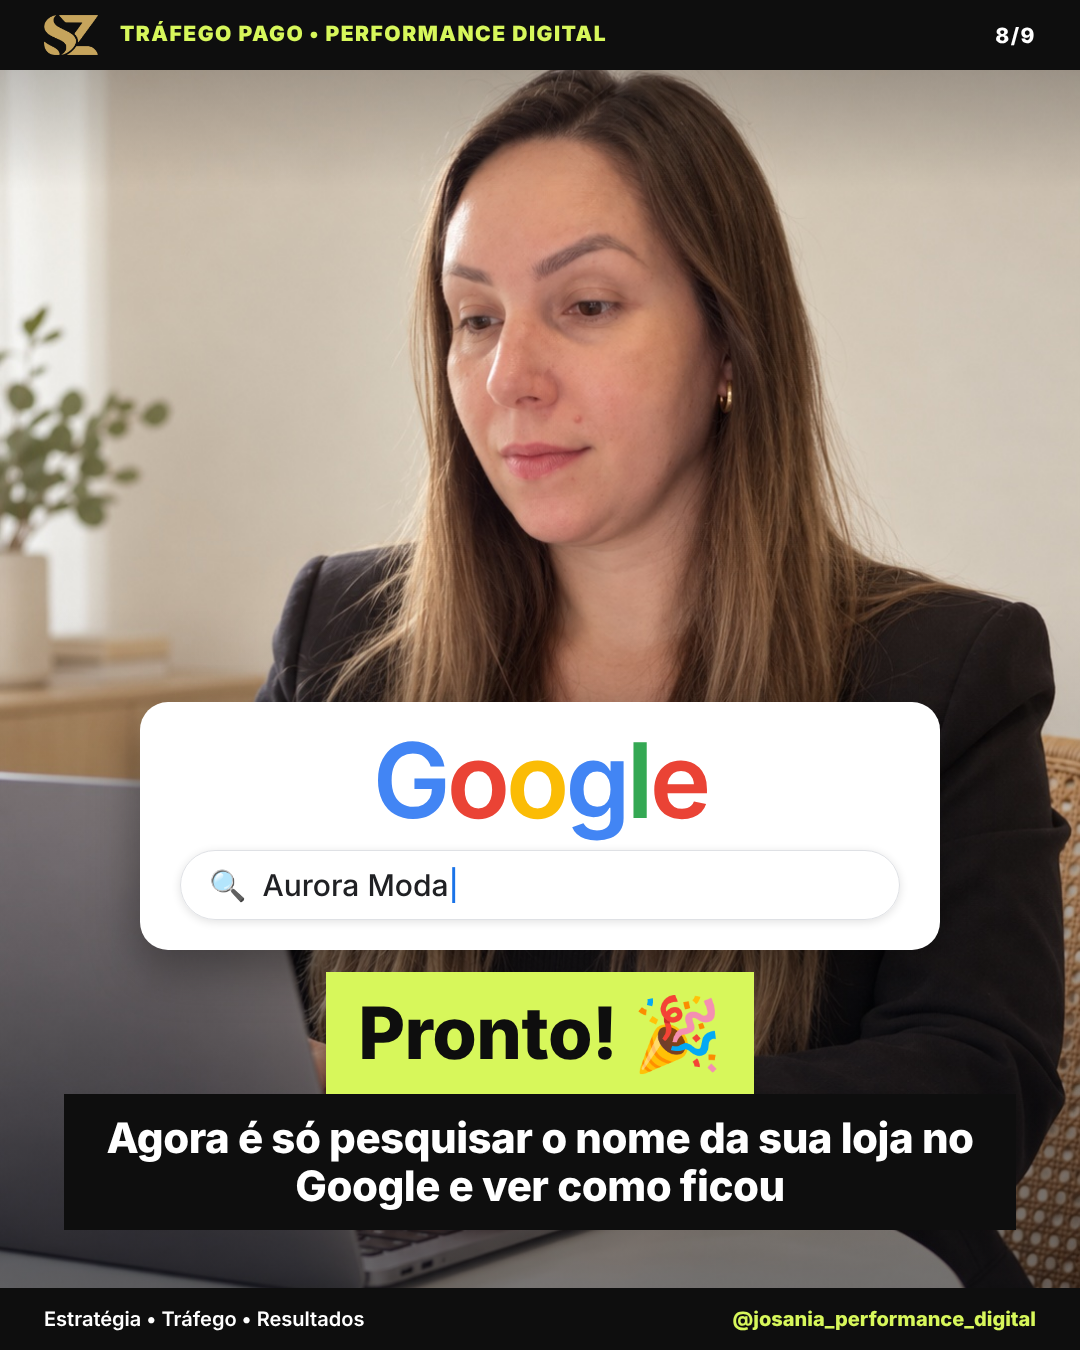
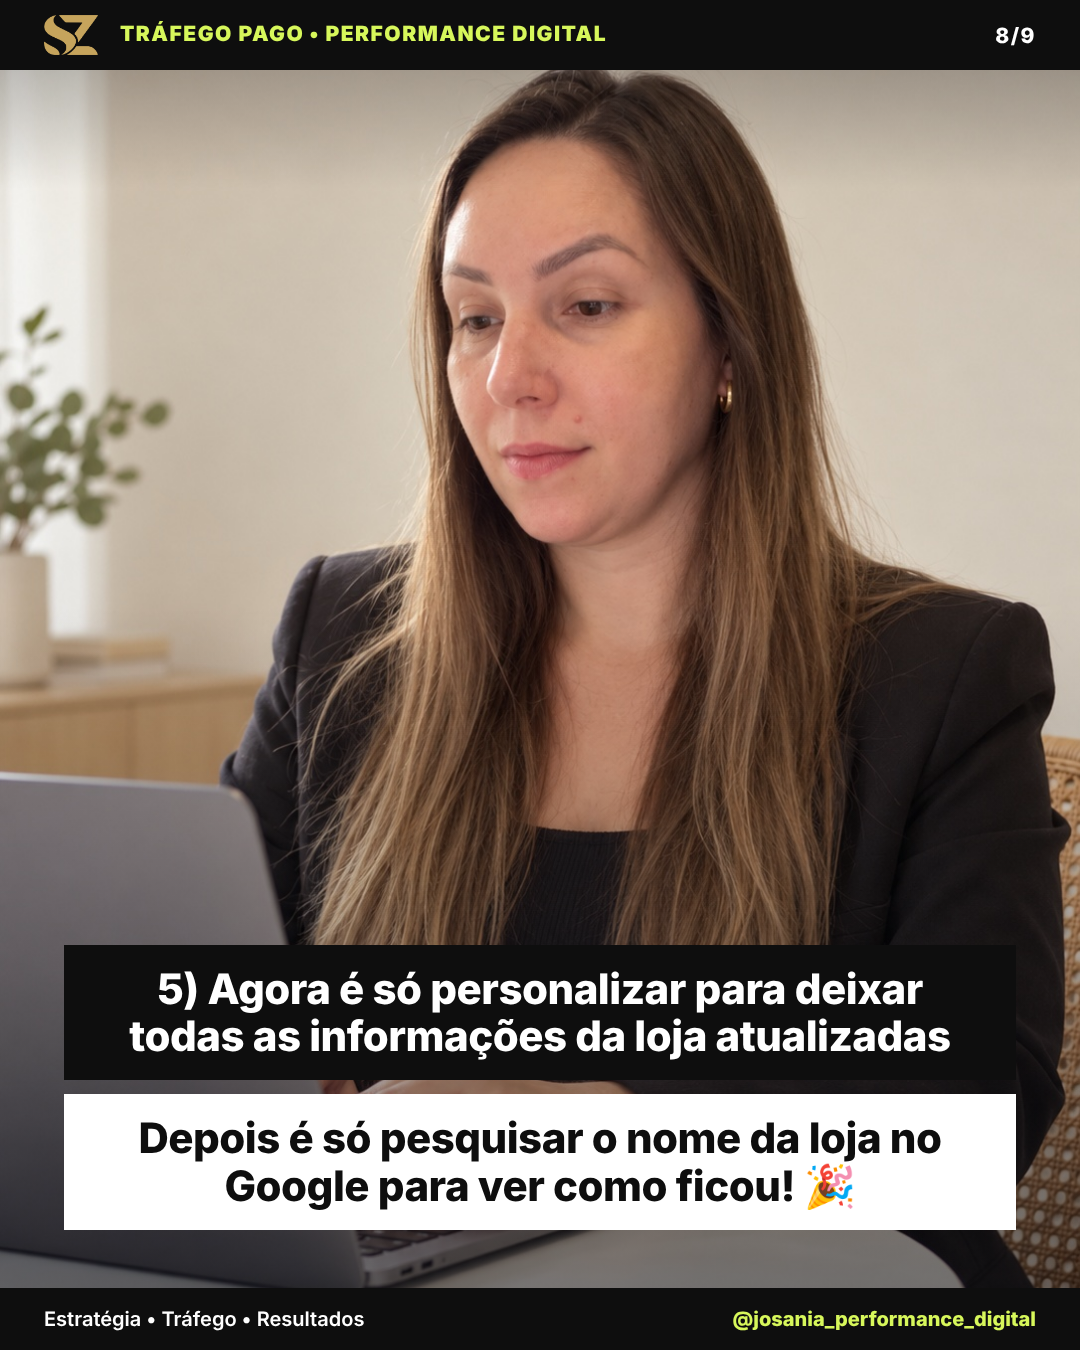
Organiza a sequência do carrossel com a loja de exemplo do início ao fim
Claude-Session: https://claude.ai/code/session_01Cdq3fSAdowyFYcw5UgbxcJ

Changed region(s): [[0.0611, 0.4978, 0.9472, 0.9333]]

diff --git a/conteudos/carrossel-perfil-google/gerar.py b/conteudos/carrossel-perfil-google/gerar.py
@@ -136,21 +136,23 @@ def slides(m):
 <div class="src" style="margin-top:14px;font-weight:700">Posts mais recentes</div>
 <div class="posts circ">{miniaturas()}</div></div>""")
     perfil_pg = f"""<div class="mock" style="width:760px">
-<div style="background:{m['cor_fundo']};color:#fff;padding:28px 30px"><div style="font:800 40px Inter">{nome}</div><div style="font-size:18px;opacity:.8">{perfil} · Perfil no Google</div></div>
+<div style="background:{m['cor_fundo']};color:#fff;padding:28px 30px"><div style="font:800 40px Inter">{nome}</div><div style="font-size:18px;opacity:.8">{perfil} · Perfil de criador</div></div>
 <div style="padding:20px 30px"><span class="chip">+ Seguir no Google</span><span class="chip">Instagram</span><span class="chip">TikTok</span><span class="chip">YouTube</span>
 <div class="src" style="margin:18px 0 6px;font-weight:700">Posts mais recentes</div><div class="posts">{miniaturas()}</div></div></div>"""
-    passos = [("📸", "Entre com o Instagram da loja"), ("🔗", "Conecte as outras redes (se quiser)"), ("✅", "Conclua o cadastro"), ("✏", "Personalize as informações")]
-    grade = "".join(f'<div class="tile"><span>{e}</span>{i + 2}) {t}</div>' for i, (e, t) in enumerate(passos))
+    link = f"""<div class="mock" style="width:760px"><div style="background:{m['cor_fundo']};color:{m['cor_primaria']};padding:40px 30px;text-align:center;font:800 38px Inter">Sua presença oficial<br>no Google</div>
+<div style="padding:22px 30px;background:#eef3ff"><div style="font:700 24px Inter">Google para Criadores | Perfil na Pesquisa</div>
+<div class="desc" style="font-size:19px;margin-top:6px">Uma nova maneira de criadores, marcas e publishers se destacarem na Pesquisa.</div>
+<div class="src" style="margin-top:10px;font-size:18px">🔗 creators.google</div></div></div>"""
     return [
-        f'{busca(nome)}<div class="box ouro sm">🚨 Novidade no Google!</div><div class="box escuro">Se o Instagram da sua loja tem <span class="hl">mais de 10 mil seguidores</span>, ele agora pode aparecer no Google!</div>',
-        f'<div class="gcard" style="width:auto">{logo_google()}</div><div class="box branco big" style="font-size:62px">E o que muda na prática? 🤔</div><div class="box lima sm">Curte ❤ e me segue<br>antes que eu te explique 👇</div>',
-        f'<div class="box escuro sm">ANTES: quando a cliente pesquisava a loja, aparecia só isso 👇</div>{antes}{NOTA}',
-        f'<div class="box escuro sm">DEPOIS: com o perfil no Google, aparecem os <span class="hl">posts do Instagram da loja</span> 👇</div><div class="box lima" style="font-size:34px">✅ Muito mais completo, com links direto pro Instagram!</div>{depois}{NOTA}',
-        f'<div class="box branco sm">E clicando em “ver perfil”, a cliente vê <span class="hla">todas as redes da loja</span> num lugar só 🔥</div>{perfil_pg}{NOTA}',
-        f'{busca("creators.google/pt-BR/profile")}<div class="box escuro sm">Pra criar é simples:</div><div class="box branco sm">1) Acesse o site do Google para Criadores</div><div class="box ouro xs">Precisa ter mais de 10 mil seguidores e 18 anos ou mais</div>',
-        f'<div class="box escuro sm">Depois é só seguir os passos:</div><div class="grade">{grade}</div>',
-        f'{busca(nome)}<div class="box lima big">Pronto! 🎉</div><div class="box escuro sm">Agora é só pesquisar o nome da sua loja no Google e ver como ficou</div>',
-        f'<img class="selo" src="{m["sz_uri"]}"><div class="box branco">Quer mais dicas como essa pra sua loja?</div><div class="box escuro sm">Me segue que eu te ensino<br>o passo a passo 👣</div><div class="box lima" style="font-size:52px">{m["perfil"]}</div>',
+        f'<img class="selo canto" src="{m["sz_uri"]}"><div class="box ouro sm">🚨 Alerta de ATUALIZAÇÃO</div><div class="box escuro big">que vai fazer a sua loja <span class="hl">aparecer muito mais</span> no Google!</div>',
+        '<div class="box branco">Agora a sua loja pode ter um <span class="hla">perfil de creator</span> no Google!</div><div class="box escuro sm">E ele muda totalmente o que aparece quando alguém pesquisa o nome da loja 👀</div>',
+        f'<div class="box escuro sm">ANTES: esse era o resultado que aparecia quando pesquisavam a loja 👇</div>{antes}{NOTA}',
+        f'<div class="box escuro sm">E agora esse é o resultado que aparece DEPOIS que a loja criou o perfil no <span class="hl">Google creator!</span> 👇</div><div class="box lima" style="font-size:34px">✅ Muito mais completo, e com links que levam direto para os conteúdos do Instagram da loja!</div>{depois}{NOTA}',
+        f'<div class="box branco sm">E tem mais, se a cliente clicar em “ver perfil do creator” ela é <span class="hla">direcionada</span> para uma página com <span class="hla">todos os links das redes sociais</span> da loja 👌🔥</div>{perfil_pg}{NOTA}',
+        f'<div class="box escuro sm">E para criar o perfil é muito simples.</div><div class="box branco sm">1) Basta você acessar o site:</div><div class="box lima" style="font-size:40px">https://creators.google/pt-BR/profile</div>{link}',
+        '<div class="box escuro sm">2) Conecte o perfil do Instagram da loja para validar a inscrição</div><div class="box ouro xs">(Válido apenas para quem tem mais de 10 mil seguidores)</div><div class="gap"></div><div class="box branco sm">3) Conecte as outras redes sociais (se quiser)</div><div class="gap"></div><div class="box lima sm">4) Conclua o cadastro e acesse o perfil da loja no Google</div>',
+        '<div class="box escuro sm">5) Agora é só personalizar para deixar todas as informações da loja atualizadas</div><div class="gap"></div><div class="box branco sm">Depois é só pesquisar o nome da loja no Google para ver como ficou! 🎉</div>',
+        f'<img class="selo" src="{m["sz_uri"]}"><div class="box lima">Gostou? Já curte esse post ❤</div><div class="box branco">E se quiser receber mais conteúdos como esse é só seguir</div><div class="box escuro" style="font-size:52px">{m["perfil"]}</div>',
     ]
 
 
